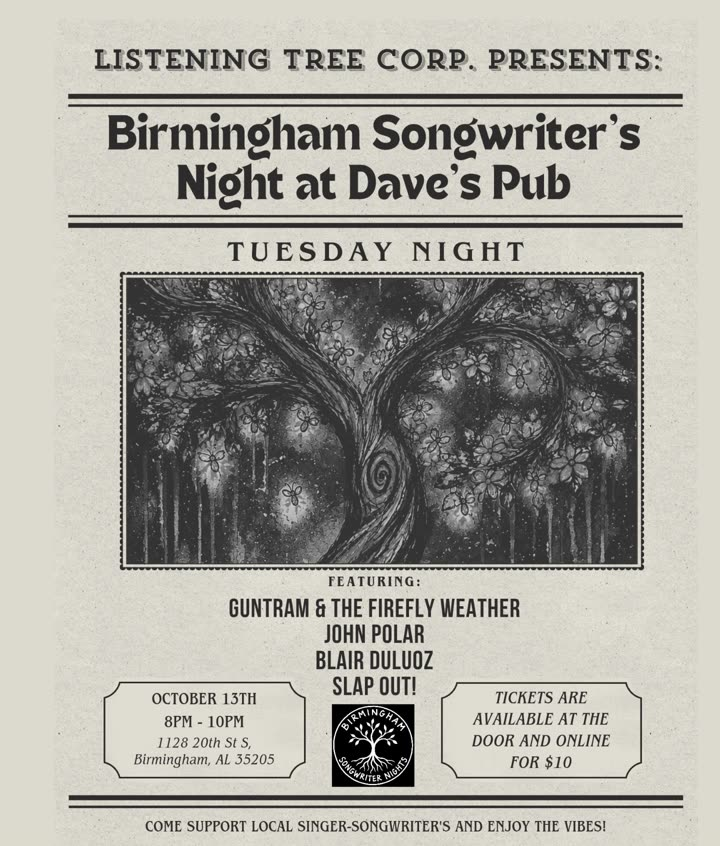
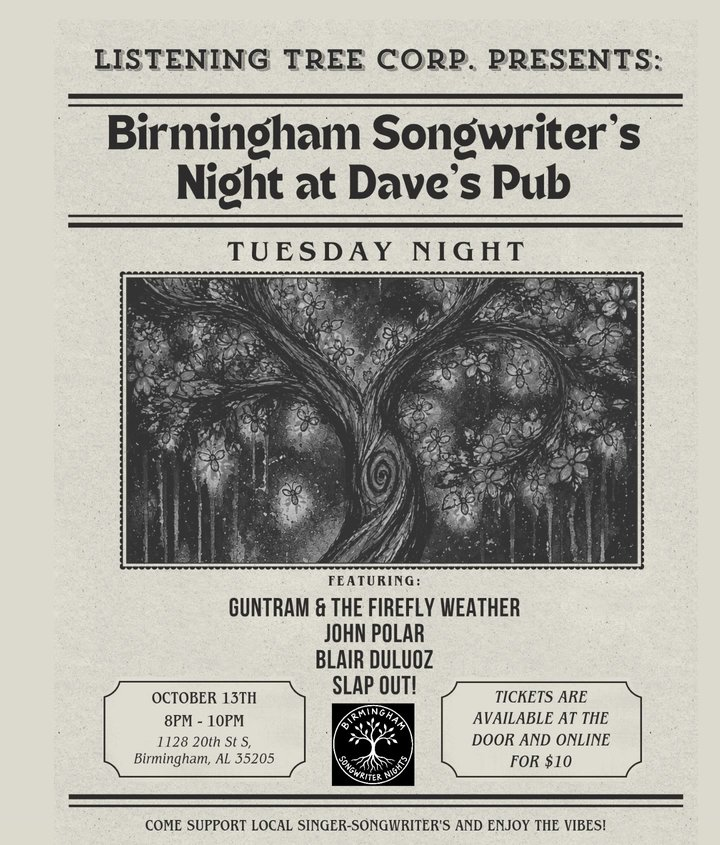
Optimize flyer thumbnails and harden Service Worker fetch handling
- Re-encode assets/thumbs/flyer_20261103.jpg and flyer_20261013.jpg as clean progressive sRGB JPEGs
- Bump Service Worker cache to polarecords-cache-v24
- Safely handle offline fetch catch without returning unhandled undefined responses
- Update AI_DEVLOG.md with on-device diagnosis and resolution details

diff --git a/sw.js b/sw.js
@@ -1,4 +1,4 @@
-const CACHE_NAME = 'polarecords-cache-v23';
+const CACHE_NAME = 'polarecords-cache-v24';
 const urlsToCache = [
     './',
     './index.html',
@@ -33,19 +33,19 @@ self.addEventListener('fetch', event => {
                 caches.open(CACHE_NAME).then(cache => cache.put(event.request, clone));
             }
             return networkResponse;
-        }).catch(() =>
-            caches.match(event.request).then(cached => {
-                if (cached) return cached;
-                if (event.request.headers.get('accept')?.includes('text/html')) {
-                    return new Response(
-                        `<div style="background:#0c0a08;color:#f1e8da;font-family:sans-serif;padding:20px;">
-                            You're offline. Reconnect and refresh to see PolaRecords.
-                        </div>`,
-                        { headers: { 'Content-Type': 'text/html' } }
-                    );
-                }
-            })
-        )
+        }).catch(async () => {
+            const cached = await caches.match(event.request);
+            if (cached) return cached;
+            if (event.request.headers.get('accept')?.includes('text/html')) {
+                return new Response(
+                    `<div style="background:#0c0a08;color:#f1e8da;font-family:sans-serif;padding:20px;">
+                        You're offline. Reconnect and refresh to see PolaRecords.
+                    </div>`,
+                    { headers: { 'Content-Type': 'text/html' } }
+                );
+            }
+            return new Response('', { status: 408, statusText: 'Request Timed Out / Offline' });
+        })
     );
 });
 
